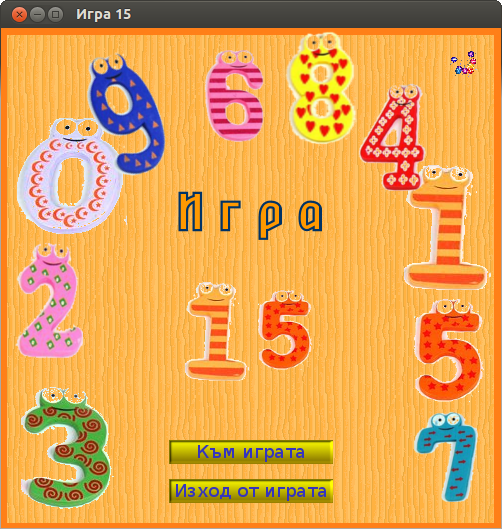
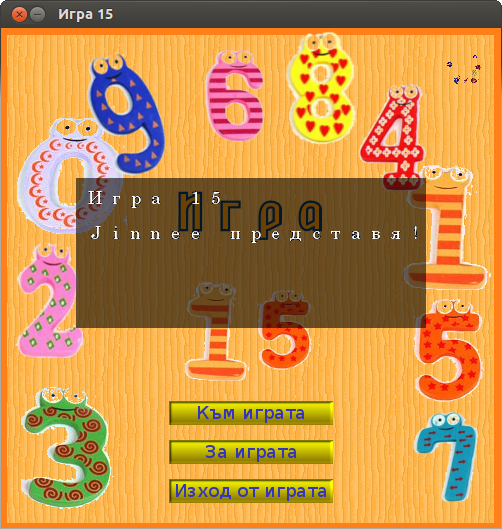
tutorial 2

diff --git a/gsrc/FifteenGame.cpp b/gsrc/FifteenGame.cpp
@@ -16,21 +16,90 @@ void FifteenGame::init() {
     background->setImage(Constants::RESOURCE_DIR + Constants::pathSeparator + "background.png");
     // прибавяме към SpriteManager - Game наследява SpriteManager
     addSprite(background);
+
+    // зареждаме курсора
+    string cursor_path = FConstants::STANDART_CURSOR;
+    Cursor::setPath(cursor_path);
+    cursor = Cursor::getCursor();
+    addSprite(cursor);
+
+    // анимиран спрайт
+    sparks = new AnimatedSprite();
+    // показва геометрията на спрайта - 12 фрейма (кадъра) в в 1 ред
+    sparks->setTilesXY(12, 1);
+    // зареждаме картинката
+    sparks->setImage(Constants::RESOURCE_DIR + Constants::pathSeparator + "magicStars.png");
+    // определяме име
+    sparks->setName("sparks");
+    // кои фреймове ще показваме
+    sparks->setFrameBeginEnd(0, 12);
+    // с каква скорост ще се показват фреймовете
+    sparks->calculate(10);
+    // разполагаме го в горният десен ъгъл на началният екран
+    sparks->setX(getWidth() - sparks->getSpriteWidth() - 20);
+    sparks->setY(20);
+    // добавяме към SpriteManager
+    addSprite(sparks);
+
+    // бутон за излизане
+    btnExitGame = new Button();
+    btnExitGame->setTilesXY(1,2);
+    btnExitGame->setImage(Constants::RESOURCE_DIR + Constants::pathSeparator + "exitGame.png");
+    btnExitGame->setName("btnExitGame");
+    btnExitGame->setX((getWidth() - btnExitGame->getSpriteWidth())/2);
+    int exitBtnBottom = getHeight() - btnExitGame->getSpriteHeight() - 25;
+    btnExitGame->setY(exitBtnBottom);
+    addSprite(btnExitGame);
+
+    btnGoGame = new Button();
+    btnGoGame->setTilesXY(1,2);
+    btnGoGame->setImage(Constants::RESOURCE_DIR + Constants::pathSeparator + "goGame.png");
+    btnGoGame->setName("btnGoGame");
+    btnGoGame->setX((getWidth() - btnGoGame->getSpriteWidth())/2);
+    btnGoGame->setY(exitBtnBottom - 2*btnGoGame->getSpriteHeight() - 30);
+    addSprite(btnGoGame);
+
+    btnAboutGame = new Button();
+    btnAboutGame->setTilesXY(1,2);
+    btnAboutGame->setImage(Constants::RESOURCE_DIR + Constants::pathSeparator + "aboutGame.png");
+    btnAboutGame->setName("btnAboutGame");
+    btnAboutGame->setX((getWidth() - btnAboutGame->getSpriteWidth())/2);
+    btnAboutGame->setY(exitBtnBottom - btnAboutGame->getSpriteHeight() - 15);
+    addSprite(btnAboutGame);
+
 }
 
 void FifteenGame::update(double deltaTime) {
+    if (sparks) {
+        sparks->update(deltaTime);
+    }
 }
 
 void FifteenGame::render() {
     // показваме
     background->render(screen);
+    sparks->render(screen);
+    btnExitGame->render(screen);
+    btnGoGame->render(screen);
+    btnAboutGame->render(screen);
+    cursor->render(screen);
 }
 
 void FifteenGame::freeResources() {
 }
 
 FifteenGame::~FifteenGame() {
-    // премахваме обекта
+    background = 0;
     delete background;
+    cursor = 0;
+    delete cursor;
+    sparks = 0;
+    delete sparks;
+    btnExitGame = 0;
+    delete btnExitGame;
+    btnGoGame = 0;
+    delete btnGoGame;
+    btnAboutGame = 0;
+    delete btnAboutGame;
 }
 

diff --git a/src/Cursor.cpp b/src/Cursor.cpp
@@ -1,14 +1,23 @@
 #include "../include/Cursor.h"
 
+/**
+ * Смяна на курсора
+ * @brief Cursor::changeCursor
+ * @param pathCursor
+ */
 void Cursor::changeCursor(string &pathCursor) {
+    // освобождаваме старата картинка
     SDL_FreeSurface(this->getImage());
     this->pathCursor = pathCursor;
+    // зареждаме новата
     setImage(pathCursor);
 }
 
 void Cursor::render(SDL_Surface* screen) {
+    // показване
     StaticSprite::render(screen);
 }
+
 
 Cursor* Cursor::getCursor() {
     if (cursor == 0) {
@@ -17,13 +26,20 @@ Cursor* Cursor::getCursor() {
     return cursor;
 }
 
+/**
+ * Вземаме инстанция на курсора
+ * @brief Cursor::Cursor
+ */
 Cursor::Cursor(): AnimatedSprite() {
+    // скриваме стандартният курсор
     SDL_ShowCursor(0);
     type = Constants::SpriteTypes::MOUSE_CURSOR;
     name = "MouseCursor";
+    // позициянираме го в горният ляв ъгъл на играта ни
     setX(0);
     setY(0);
     if (Cursor::pathCursor != "") {
+        // зареждаме
         setImage(Cursor::pathCursor);
     }
 }

diff --git a/include/Cursor.h b/include/Cursor.h
@@ -7,13 +7,16 @@ class Cursor : public AnimatedSprite
 {
     public:
         static Cursor* getCursor();
+        // първоначално сетване на пътя до курсора
         static void setPath(string& pathCursor);
         virtual ~Cursor();
         void render(SDL_Surface* screen);
+        // смяна на курсора
         void changeCursor(string& pathCursor);
     private:
         Cursor();
         static Cursor* cursor;
+        // път до картинката с курсора
         static string pathCursor;
 };
 

diff --git a/gsrc/FifteenGame.h b/gsrc/FifteenGame.h
@@ -1,9 +1,11 @@
 #ifndef FIFTEENGAME_H
 #define FIFTEENGAME_H
-#include <iostream>
 
 #include "../include/Game.h"
 #include "../include/Background.h"
+#include "../include/Cursor.h"
+
+#include "FConstants.h"
 
 class FifteenGame : public Game {
 public:
@@ -16,6 +18,11 @@ public:
     ~FifteenGame();
 private:
     Background* background;
+    Cursor* cursor;
+    AnimatedSprite* sparks;
+    Button* btnExitGame;
+    Button* btnGoGame;
+    Button* btnAboutGame;
 };
 
 #endif // FIFTEENGAME_H

diff --git a/src/Button.cpp b/src/Button.cpp
@@ -1,18 +1,14 @@
 
 #include "../include/Button.h"
 
-Button::Button(): StaticSprite()
-{
+Button::Button(): StaticSprite() {
     name = "BUTTON";
     type = Constants::SpriteTypes::UI_BUTTON;
     setX(0);
     setY(0);
 }
 
-Button::~Button()
-{
-//    SDL_FreeSurface(this->image);
-    SpriteManager::deleteSprite(this->getName());
+Button::~Button() {
 }
 
 //смяна на картинката, когато курсора е върху бутона (или го напуска)

diff --git a/src/StaticSprite.cpp b/src/StaticSprite.cpp
@@ -16,6 +16,7 @@ StaticSprite::StaticSprite() : AbstractSprite()
 
 StaticSprite::~StaticSprite() {
     SpriteManager::deleteSprite(this->name);
+    SDL_FreeSurface(this->image);
 }
 
 void StaticSprite::setMouseButtonDown(bool isDown) {

diff --git a/gsrc/FConstants.h b/gsrc/FConstants.h
@@ -1,0 +1,8 @@
+#ifndef FCONSTANTS_H
+#define FCONSTANTS_H
+
+namespace FConstants {
+    static string STANDART_CURSOR = Constants::RESOURCE_DIR + Constants::pathSeparator + "cursor-icon.png";
+}
+
+#endif // FCONSTANTS_H

diff --git a/include/Button.h b/include/Button.h
@@ -10,8 +10,6 @@ class Button : public StaticSprite
         Button();
         virtual ~Button();
         void render(SDL_Surface* screen);
-    protected:
-    private:
 };
 
 #endif // BUTTON_H
